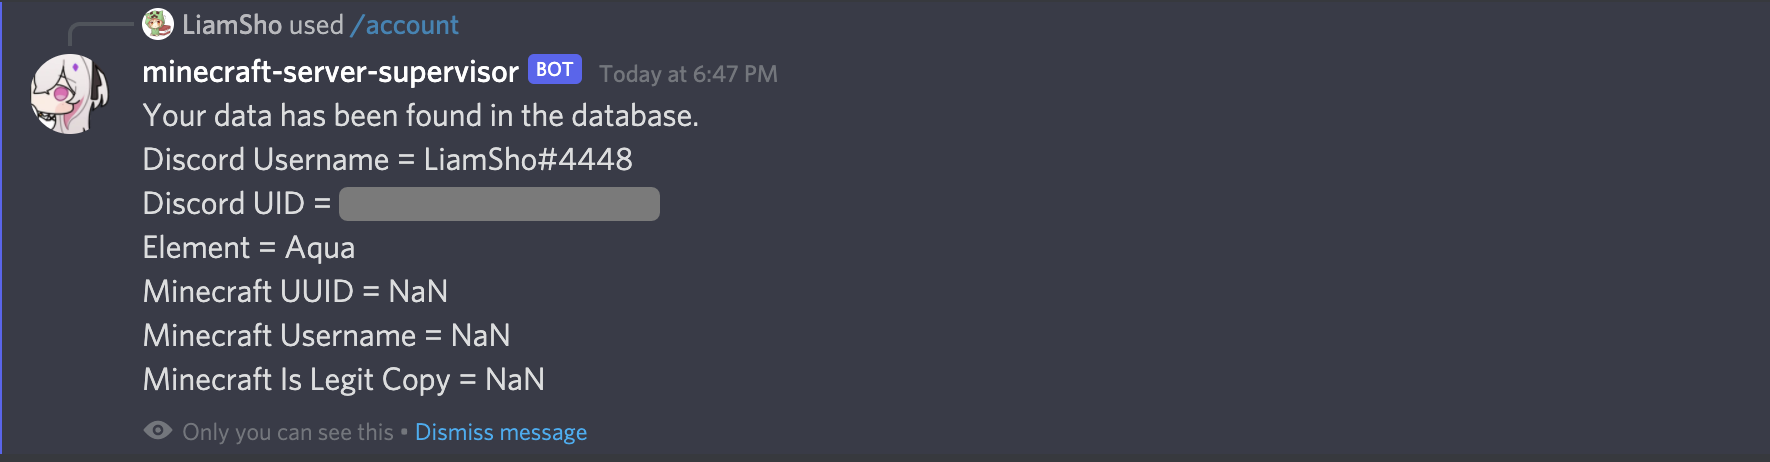
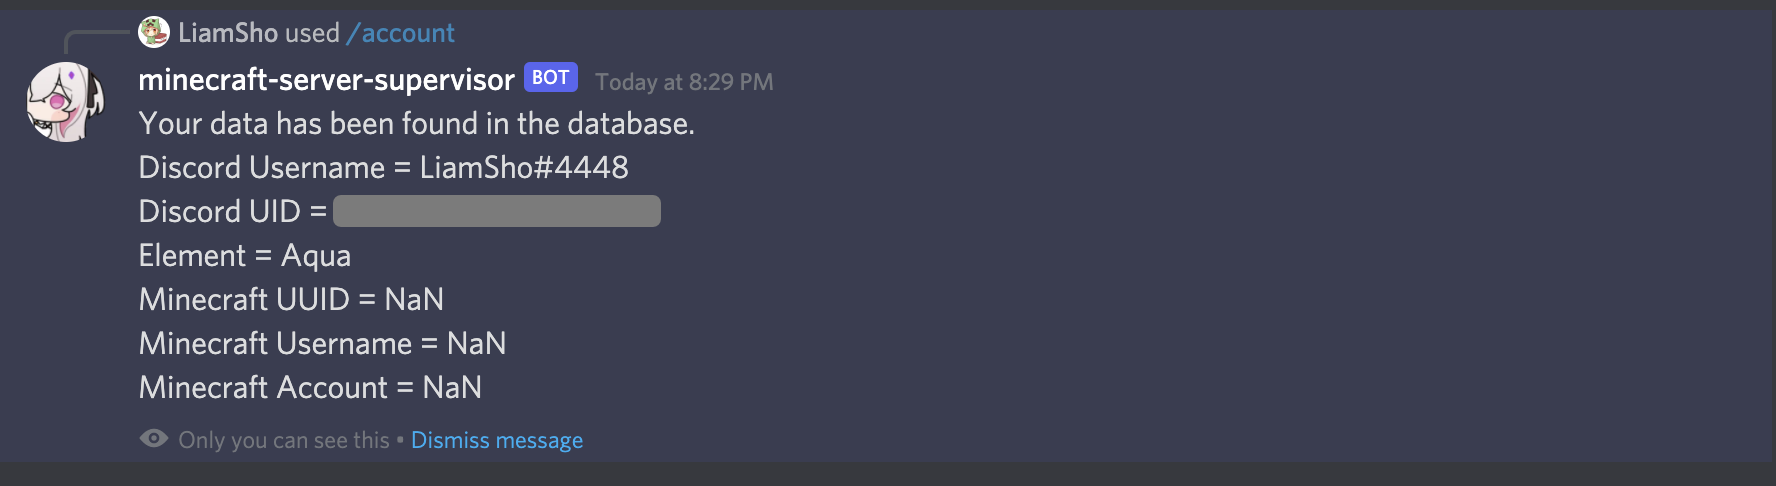
更换一张图片，修改部分文本

diff --git a/docs/join-minecraft/discord-player.md b/docs/join-minecraft/discord-player.md
@@ -36,7 +36,7 @@ sidebar_position: 3
 
 ![discord-reg-command-finish](../../static/img/join-minecraft/discord-reg-command-finish.png)
 
-您可以使用 `/account query` 指令来获取账户信息，其中包含了您的 Discord 用户名，Discord UID，Element，Minecraft UUID，Minecraft 玩家名以及 Minecraft 是否为正版的信息。
+您可以使用 `/account query` 指令来获取账户信息，其中包含了您的 Discord 用户名，Discord UID，Element，Minecraft UUID，Minecraft 玩家名以及 Minecraft 账号类型（正版/离线模式）的信息。
 
-![discord-reg-command-finish](../../static/img/join-minecraft/discord-query-command.png)
+![discord-query-command](../../static/img/join-minecraft/discord-query-command.png)
 
